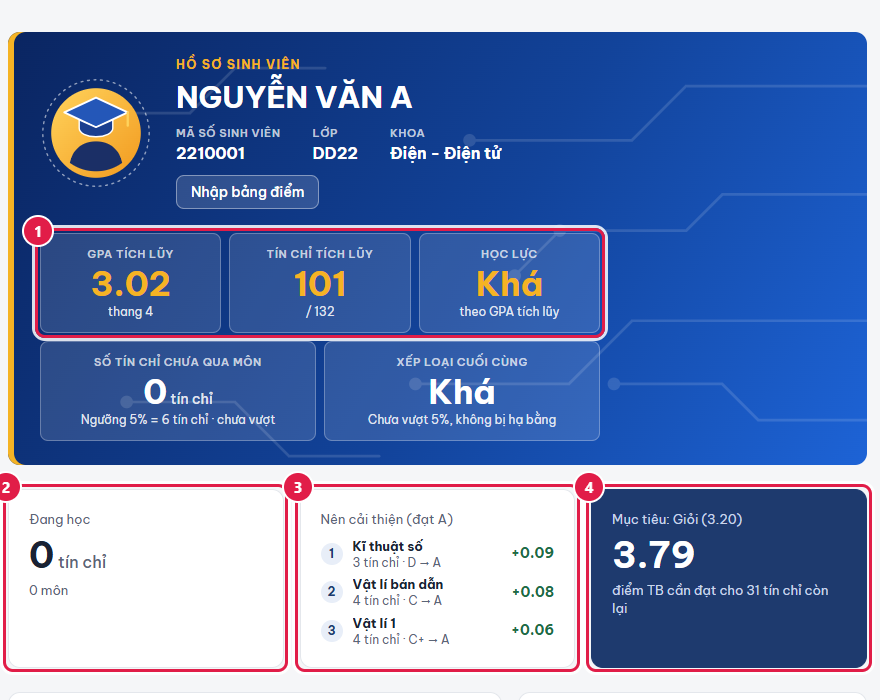
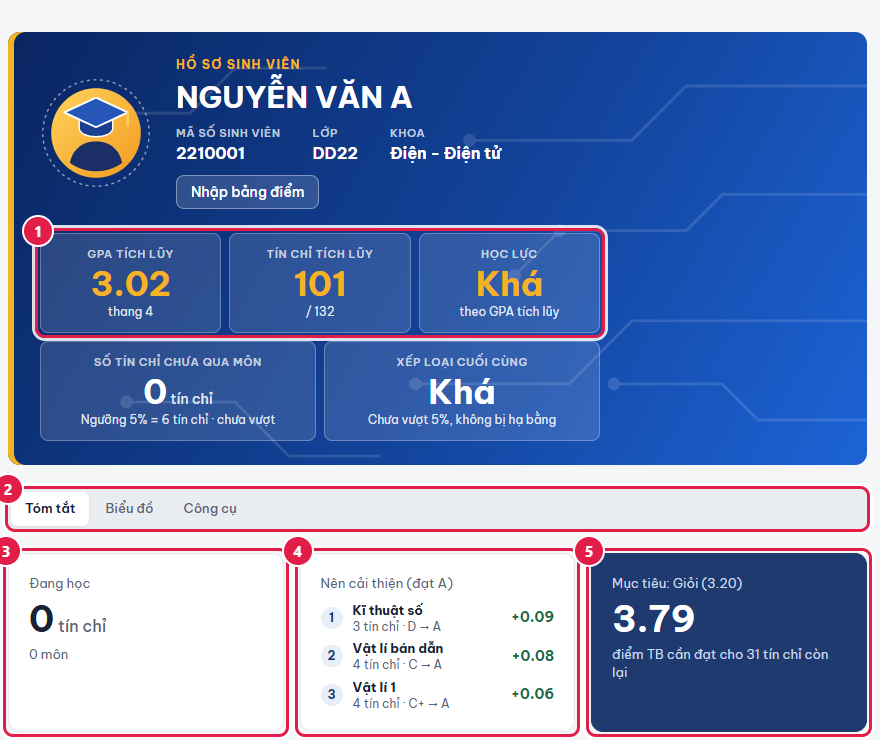
Chia trang Tổng quan thành 3 tab (Tóm tắt, Biểu đồ, Công cụ)
Cập nhật Hướng dẫn, ảnh chụp và bản dịch cho khớp.

diff --git a/src/locales/en.ts b/src/locales/en.ts
@@ -1381,7 +1381,6 @@ registerEn({
   "; muốn lên kế hoạch các kỳ tới thì sang": "; to plan the coming semesters, go to",
   "Mỗi trang có nút ↶ ↷ ở góc phải trên để hoàn tác / làm lại (hoặc Ctrl+Z / Ctrl+Y). Thao tác thành công hiện thông báo nhỏ ở cuối màn hình, có nút “Hoàn tác” trong vài giây.": "Each page has ↶ ↷ buttons at the top right to undo / redo (or Ctrl+Z / Ctrl+Y). Successful actions show a small notice at the bottom of the screen with an “Undo” button for a few seconds.",
   ": gom các cảnh báo như kế hoạch vượt trần tín chỉ, cảnh báo chuẩn đăng ký, lịch học trùng giờ, nhắc sao lưu (sau 30 ngày). Mỗi dòng có liên kết tới trang cần xử lý; khung này ẩn khi không có gì cần chú ý.": ": collects warnings such as a plan over the credit cap, registration-standard notes, timetable conflicts and a backup reminder (after 30 days). Each row links to the page to fix it; the box is hidden when nothing needs attention.",
-  "Biểu đồ GPA từng học kỳ và thẻ “Học kỳ này”.": "GPA chart by semester and the “This semester” card.",
   "Công tắc “Theo học kỳ / Theo nhóm môn”: xem điểm từng học kỳ hoặc tiến độ theo khối kiến thức của chương trình đào tạo (cần file Tiến độ).": "The “By semester / By course group” switch: view grades per semester, or progress by knowledge block of the program (needs the Progress file).",
   "Chỉ học kỳ gần nhất được mở sẵn; các học kỳ khác là một dòng tóm tắt, bấm để mở. Ô tìm kiếm và nút “Chỉ môn chưa đạt” giúp lọc nhanh.": "Only the latest semester is open; the others are a one-line summary, click to open. The search box and the “Only unpassed courses” button filter quickly.",
   ": gõ mã môn (ví dụ EE3017) thì tên và số tín chỉ tự điền. Để trống điểm nếu đang học.": ": type the course code (e.g. EE3017) and the name and credits fill in automatically. Leave the score empty if the course is in progress.",
@@ -1763,8 +1762,6 @@ registerEn({
   "**Cài đặt**: chế độ Sáng / Tối / Theo hệ thống, ngôn ngữ, chính sách quyền riêng tư, tổng số tín chỉ chương trình, quy tắc tính điểm và nút xóa toàn bộ dữ liệu.": "**Settings**: Light / Dark / System mode, language, privacy policy, total programme credits, grading rules and the button to delete all data.",
   "**Quyền riêng tư:** dữ liệu của bạn chỉ nằm trên máy này. App không gửi dữ liệu đi đâu, không quảng cáo, không theo dõi hành vi. Xem đầy đủ ở Dữ liệu & cài đặt → Cài đặt → Quyền riêng tư.": "**Privacy:** your data stays on this device. The app sends nothing anywhere, shows no ads and does not track behaviour. See the full policy in Data & settings → Settings → Privacy.",
   "Bấm “Dữ liệu & cài đặt” ① rồi “Chọn file PDF…” ② (hoặc kéo thả file vào khung)": "Press “Data & settings” ① then “Choose PDF file…” ② (or drag and drop the file into the box)",
-  "① GPA, tín chỉ, học lực ② môn đang học ③ môn nên cải thiện ④ mục tiêu GPA": "① GPA, credits, classification ② courses in progress ③ courses to improve ④ GPA target",
-  "① Thẻ “Học kỳ này” ② GPA từng học kỳ (kéo xuống để xem)": "① The “This semester” card ② GPA per semester (scroll down to see it)",
   "① Xem theo học kỳ hoặc theo nhóm môn ② Tìm môn đã học ③ Chỉ hiện môn chưa đạt": "① View by semester or by course group ② Search courses already taken ③ Show only unmet courses",
   "① Gõ mã hoặc tên môn, chọn từ danh sách gợi ý ② Bấm “Thêm môn”": "① Type a course code or name and pick from the suggestions ② Press “Add course”",
   "① Bấm vào điểm để sửa ② Tick “Không tính” để loại môn khỏi GPA ③ Bấm × để xóa môn": "① Click a grade to edit it ② Tick “Excluded” to leave a course out of GPA ③ Press × to delete the course",
@@ -1779,4 +1776,9 @@ registerEn({
   "① Tab “Cài đặt”: chế độ màu, ngôn ngữ, quyền riêng tư, tổng số tín chỉ": "① The “Settings” tab: colour mode, language, privacy, total credits",
   "Khối đầu trang: GPA tích lũy, tín chỉ tích lũy, học lực và xếp loại cuối cùng; bên dưới là môn đang học, môn nên cải thiện và mục tiêu GPA.": "The top block: cumulative GPA, earned credits, classification and final classification; below are courses in progress, courses to improve and the GPA target.",
   "**Sửa trực tiếp** ngay trong bảng. Điểm nhận số 0–10 hoặc ký hiệu MT, DT, RT, CT, VT, CH, KD, VP, HT. Ô “Không tính” loại môn khỏi GPA và tín chỉ tích lũy; nút × xóa môn.": "**Edit in place** right in the table. Grades accept 0–10 or the codes MT, DT, RT, CT, VT, CH, KD, VP, HT. The “Excluded” box leaves a course out of GPA and earned credits; the × button deletes it.",
+  "Tóm tắt": "Summary",
+  "Biểu đồ": "Charts",
+  "① GPA, tín chỉ, học lực ② ba tab: Tóm tắt, Biểu đồ, Công cụ ③ môn đang học ④ môn nên cải thiện ⑤ mục tiêu GPA": "① GPA, credits, classification ② three tabs: Summary, Charts, Tools ③ courses in progress ④ courses to improve ⑤ GPA target",
+  "① Tab “Biểu đồ” ② GPA từng học kỳ ③ phân bố điểm chữ": "① The “Charts” tab ② GPA per semester ③ letter-grade distribution",
+  "Ba tab dưới hồ sơ: **Tóm tắt** (thẻ chỉ số, Cần chú ý, Học kỳ này), **Biểu đồ** (GPA từng học kỳ, phân bố điểm chữ) và **Công cụ** (tính nhanh GPA, đối chiếu với trường).": "Three tabs under the profile: **Summary** (key cards, Needs attention, This semester), **Charts** (GPA per semester, letter-grade distribution) and **Tools** (quick GPA estimate, check against the school).",
 });

diff --git a/src/components/Dashboard.tsx b/src/components/Dashboard.tsx
@@ -119,7 +119,9 @@ function courseLine(a: Attempt): { line: string; pct: number } {
 
 interface Row { id: string; n: number; err?: boolean; text: string; small?: string; link?: [string, () => void]; extra?: [string, () => void] }
 
-export function Dashboard({ data, go }: { data: AppData; go: Go }) {
+export type DashView = 'summary' | 'charts' | 'tools';
+
+export function Dashboard({ data, go, view, setView }: { data: AppData; go: Go; view: DashView; setView: (v: DashView) => void }) {
   const { attempts, settings } = data;
   const [, bump] = useState(0);
   const s = useMemo(() => summarize(attempts, settings.retakePolicy), [attempts, settings.retakePolicy]);
@@ -177,7 +179,11 @@ export function Dashboard({ data, go }: { data: AppData; go: Go }) {
   return (
     <div className="page">
       <ProfileBanner st={st} gpa={s.gpa} earned={earned} total={total} classification={s.classification} dc={dc} action={<button onClick={() => go('data', 'data')}>{t('Nhập bảng điểm')}</button>} />
-      <section className="kpis" aria-label={t('Chỉ số chính')}>
+      <div className="seg" role="group" aria-label={t('Chế độ xem')}>
+        {([['summary', t('Tóm tắt')], ['charts', t('Biểu đồ')], ['tools', t('Công cụ')]] as [DashView, string][]).map(([k, l]) => <button key={k} aria-pressed={view === k} onClick={() => setView(k)}>{l}</button>)}
+      </div>
+
+      {view === 'summary' && <section className="kpis" aria-label={t('Chỉ số chính')}>
         <div className="card stat kpi"><span className="k">{t('Đang học')}</span><span className="v">{ongoing.reduce((a, o) => a + o.credits, 0)}<small> {t('tín chỉ')}</small></span><span className="sub">{t('{n} môn', { n: ongoing.length })}{ongoing.length > 0 && ` · ${semesterShort(nowSem)}`}</span></div>
         {improve.length > 0 && (
           <div className="card stat kpi">
@@ -192,9 +198,9 @@ export function Dashboard({ data, go }: { data: AppData; go: Go }) {
             </div>
           </div>)}
         <div className="card stat kpi goal"><span className="k">{t('Mục tiêu: {c} ({g})', { c: t(classify(settings.targetGpa)), g: fmt(settings.targetGpa) })}</span><span className="v">{goalVal}</span><span className="sub">{goalSub}</span></div>
-      </section>
+      </section>}
 
-      {rows.length > 0 && (
+      {view === 'summary' && rows.length > 0 && (
         <section className="attn" aria-label={t('Cần chú ý')}>
           <b>{t('Cần chú ý ({n})', { n: count })}</b>
           {rows.map((r) => (
@@ -206,8 +212,8 @@ export function Dashboard({ data, go }: { data: AppData; go: Go }) {
         </section>
       )}
 
-      <div className="cols">
-        <section className="card grow3 colstack" aria-label={t('Học kỳ này')}>
+      {view === 'summary' && (
+        <section className="card colstack" aria-label={t('Học kỳ này')}>
           <div className="head-row"><h3 className="m0">{t('Học kỳ này')} · {semesterShort(nowSem)}</h3><button className="linkbtn small" onClick={() => go('goals', 'courses')}>{t('Tính điểm →')}</button></div>
           {ongoing.length === 0 ? <p className="muted">{t('Chưa có môn đang học.')}</p> : (
             <div className="curgrid">
@@ -222,7 +228,10 @@ export function Dashboard({ data, go }: { data: AppData; go: Go }) {
               })}
             </div>)}
         </section>
-        <section className="card grow2" aria-label={t('GPA theo học kỳ')}>
+      )}
+
+      {view === 'charts' && (<div className="cols">
+        <section className="card grow3" aria-label={t('GPA theo học kỳ')}>
           <div className="head-row mb"><h3 className="m0">{t('GPA theo học kỳ')}</h3><span className="small muted">{t('thang 4')}</span></div>
           {series.length === 0 ? <p className="muted">{t('Chưa có dữ liệu để vẽ biểu đồ.')}</p> : (
             <div className="hbars" role="img" aria-label={t('GPA theo học kỳ')}>
@@ -234,13 +243,6 @@ export function Dashboard({ data, go }: { data: AppData; go: Go }) {
                 </div>))}
             </div>)}
         </section>
-      </div>
-
-      <div className="cols">
-        <div className="grow3 colstack">
-          <QuickCalc gpa={s.gpa} credits={s.countedCredits} points={s.qualityPoints} target={settings.targetGpa} />
-          <OfficialCheck data={data} />
-        </div>
         <div className="card grow2">
           <CardTitle>{t('Phân bố điểm chữ (theo tín chỉ)')}</CardTitle>
           <div className="dist">
@@ -252,7 +254,14 @@ export function Dashboard({ data, go }: { data: AppData; go: Go }) {
               </div>))}
           </div>
         </div>
-      </div>
+      </div>)}
+
+      {view === 'tools' && (
+        <div className="colstack">
+          <QuickCalc gpa={s.gpa} credits={s.countedCredits} points={s.qualityPoints} target={settings.targetGpa} />
+          <OfficialCheck data={data} />
+        </div>
+      )}
     </div>
   );
 }

diff --git a/src/App.tsx b/src/App.tsx
@@ -3,6 +3,7 @@ import type { ReactNode } from 'react';
 import { Goals } from './components/Goals';
 import { Guide } from './components/Guide';
 import { Dashboard } from './components/Dashboard';
+import type { DashView } from './components/Dashboard';
 import { DataPage } from './components/DataPage';
 import { SemPlan } from './components/SemPlan';
 import { Timetable } from './components/Timetable';
@@ -25,7 +26,7 @@ const pad2 = (n: number) => String(n).padStart(2, '0');
 const clock = (ts: number) => { const d = new Date(ts); return `${pad2(d.getHours())}:${pad2(d.getMinutes())}`; };
 
 export type Page = 'overview' | 'transcript' | 'goals' | 'semplan' | 'timetable' | 'guide' | 'data';
-/** Chuyển trang, kèm (nếu cần) chế độ xem con của trang đó: bảng điểm 'sem' | 'group', mục tiêu 'target' | 'courses', xếp lịch '1' | '2' | '3', dữ liệu 'data' | 'settings'. */
+/** Chuyển trang, kèm (nếu cần) chế độ xem con của trang đó: tổng quan 'summary' | 'charts' | 'tools', bảng điểm 'sem' | 'group', mục tiêu 'target' | 'courses', xếp lịch '1' | '2' | '3', dữ liệu 'data' | 'settings'. */
 export type Go = (page: Page, sub?: string) => void;
 
 const Ico = ({ children }: { children: ReactNode }) => <svg width="18" height="18" viewBox="0 0 24 24" fill="none" stroke="currentColor" strokeWidth="2" strokeLinecap="round" strokeLinejoin="round" aria-hidden="true">{children}</svg>;
@@ -137,7 +138,7 @@ export function App({ initial }: { initial: AppData }) {
             </div>
           </nav>
           <main>
-            {page === 'overview' && <Dashboard data={data} go={go} />}
+            {page === 'overview' && <Dashboard data={data} go={go} view={view('overview', 'summary') as DashView} setView={setSub('overview')} />}
             {page === 'transcript' && <Transcript jump={jump} data={data} view={view('transcript', 'sem') as 'sem' | 'group'} setView={setSub('transcript')} go={go} onAdd={store.addAttempts} onUpdate={store.updateAttempt} onRemove={store.removeAttempt} onFreeCourse={store.setFreeCourse} />}
             {page === 'goals' && <Goals data={data} view={view('goals', 'target') as 'target' | 'courses'} setView={setSub('goals')} onSettings={store.updateSettings} onAdd={store.addAttempts} onUpdate={store.updateAttempt} onRemove={store.removeAttempt} />}
             {page === 'semplan' && <SemPlan data={data} onPlan={store.updatePlan} go={go} />}

diff --git a/src/guideSteps.ts b/src/guideSteps.ts
@@ -42,11 +42,11 @@ export const STEPS: GuideStep[] = [
     lines: [
       'Khối đầu trang: GPA tích lũy, tín chỉ tích lũy, học lực và xếp loại cuối cùng; bên dưới là môn đang học, môn nên cải thiện và mục tiêu GPA.',
       '**Cần chú ý**: gom các cảnh báo như kế hoạch vượt trần tín chỉ, cảnh báo chuẩn đăng ký, lịch học trùng giờ, nhắc sao lưu (sau 30 ngày). Khung này ẩn khi không có gì cần chú ý.',
-      'Biểu đồ GPA từng học kỳ và thẻ “Học kỳ này”.',
+      'Ba tab dưới hồ sơ: **Tóm tắt** (thẻ chỉ số, Cần chú ý, Học kỳ này), **Biểu đồ** (GPA từng học kỳ, phân bố điểm chữ) và **Công cụ** (tính nhanh GPA, đối chiếu với trường).',
     ],
     shots: [
-      { src: 'overview-1.png', cap: '① GPA, tín chỉ, học lực ② môn đang học ③ môn nên cải thiện ④ mục tiêu GPA' },
-      { src: 'overview-2.png', cap: '① Thẻ “Học kỳ này” ② GPA từng học kỳ (kéo xuống để xem)' },
+      { src: 'overview-1.png', cap: '① GPA, tín chỉ, học lực ② ba tab: Tóm tắt, Biểu đồ, Công cụ ③ môn đang học ④ môn nên cải thiện ⑤ mục tiêu GPA' },
+      { src: 'overview-2.png', cap: '① Tab “Biểu đồ” ② GPA từng học kỳ ③ phân bố điểm chữ' },
     ],
   },
   {
